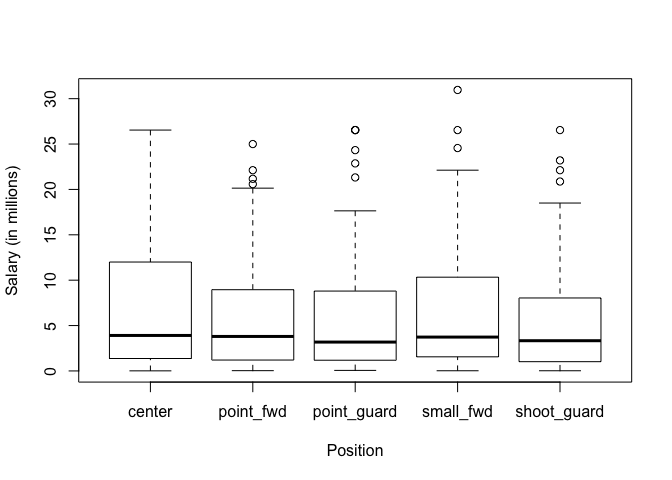
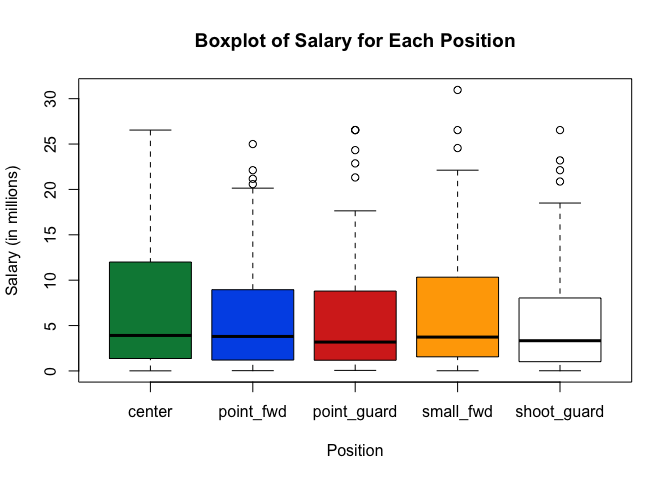
Changed a few R comments to markdown headers. Editted formating of part 8. Added color to boxplots. Added titles to all plots.

diff --git a/hw01/hw01-bryant-luong.md b/hw01/hw01-bryant-luong.md
@@ -87,7 +87,7 @@ abline(h = 10, lty = 2)
 
 Observations of scatterplot:
 
-1.  The cluster of points in the bottom left corner of the scatterplot means most players score below 500 points in a season and have a salary below $5 million.
+1.  The cluster of points in the bottom left corner of the scatterplot means most players scored below 500 points last season and had a salary below $5 million.
 
 2.  There are 3 players who scored around 2,000 points last season but had salaries close to $5 million and 3 players who scored between 1,600 and 1,900 points and had salaries close to $2.5 million.
 
@@ -203,11 +203,11 @@ summary(y_hat)
 
 ##### Regression Equation
 
-The simple linear regression equation is `y_hat = intercept + slope * points`.
+Symbolically, the simple linear regression equation is `y_hat = intercept + slope * points`. Numerically, the simple linear regression equation is `y_hat = 1.51 + 0.0086 * points`.
 
 ##### How do you interpret the slope coefficient?
 
-The slope coefficient shows the average increase in annual salary per point.
+The slope coefficient shows the average increase in annual salary per point. In other words, a player can earn approximately $8,600 for each point scored during the season.
 
 ##### How do you interpret the intercept?
 
@@ -215,36 +215,41 @@ The intercept shows the average baseline salary. If the player doesn't score any
 
 ##### What is the predicted salary (in millions) for a player that scores:
 
+##### 0 points
+
 ``` r
-# 0 points
 intercept + slope * 0
 ```
 
     ## [1] 1.509077
 
+##### 100 points
+
 ``` r
-# 100 points
 intercept + slope * 100
 ```
 
     ## [1] 2.364833
 
+##### 500 points
+
 ``` r
-# 500 points
 intercept + slope * 500
 ```
 
     ## [1] 5.78786
 
+##### 1000 points
+
 ``` r
-# 1000 points
 intercept + slope * 1000
 ```
 
     ## [1] 10.06664
 
+##### 2000 points
+
 ``` r
-# 2000 points
 intercept + slope * 2000
 ```
 
@@ -256,7 +261,7 @@ intercept + slope * 2000
 # plot data in scatter plot
 plot(points, 
      salary_millions, 
-     main = 'Regression and Lowess lines', 
+     main = 'Scatterplot of Points and Salary with Regression and Lowess Lines', 
      xlab = 'Points', 
      ylab = 'Salary (in millions)', 
      pch = 21, 
@@ -294,7 +299,7 @@ text(x = 2490,
 
 ![](hw01-bryant-luong_files/figure-markdown_github-ascii_identifiers/scatter%20with%20regression-1.png)
 
-### 6) Regression residuals and Coefficient of Determination
+### 6) Regression Residuals and Coefficient of Determination
 
 ``` r
 # Calculate residuals and store them in a vector
@@ -334,7 +339,7 @@ r_sqrd
 ``` r
 # Create scatterplot of years of experience to salary
 plot(experience_int, salary_millions, 
-     main = 'Scatterplot with lowess smooth', 
+     main = 'Scatterplot of Years of Experience and Salary with Lowess Line', 
      xlab = 'Years of Experience', 
      ylab = 'Salary (in millions)', 
      pch = 21, 
@@ -373,7 +378,8 @@ scatterplot3d(points,
               type = "h",
               xlab = "Points",
               ylab = "Experience",
-              zlab = "Salary (in millions)")
+              zlab = "Salary (in millions)",
+              main = "3D Scatterplot of Points, Experience, and Salary")
 ```
 
 ![](hw01-bryant-luong_files/figure-markdown_github-ascii_identifiers/3dscatterplot-1.png)
@@ -407,7 +413,9 @@ pos_num <- as.integer(pos_num)
 boxplot(salary_millions ~ pos_num,
         xlab = 'Position',
         ylab = 'Salary (in millions)',
-        names = c('center', 'point_fwd', 'point_guard', 'small_fwd', 'shoot_guard'))
+        main = 'Boxplot of Salary for Each Position',
+        names = c('center', 'point_fwd', 'point_guard', 'small_fwd', 'shoot_guard'),
+        col = c('#008744', '#0057e7', '#d62d20', '#ffa700', 'white'))
 ```
 
 ![](hw01-bryant-luong_files/figure-markdown_github-ascii_identifiers/boxplot-1.png)
@@ -418,40 +426,40 @@ From the boxplot, position does not seem related to salary. All positions have a
 
 **1. What was hard, even though you saw them in class?**
 
-    I am still familiarizing myself with vectorization. I have programmed in other languages and vectorization is unnatural to me. However, it is very useful and quick. I like it!
+I am still familiarizing myself with vectorization. I have programmed in other languages and vectorization is unnatural to me. However, it is very useful and quick. I like it!
 
 **2. What was easy, even though we didn't cover it in class?**
 
-    The easy part was figuring out how plot elements are colored.
+The easy part was figuring out how plot elements are colored.
 
 **3. If this was the first time you were using git, how do you feel about it?**
 
-    This isn't my first time using git. Gaston's slides on git are awesome at explaining the idea of git.
+This isn't my first time using git. Gaston's slides on git are awesome at explaining the idea of git.
 
-**4. If this was the first time using GitHub, how do you feel about it?**
+**4. If this was the first time you were using GitHub, how do you feel about it?**
 
-    This isn't my first time using GitHub. GitHub is great! I think GitHub is hard to explain so students must learn by using it.
+This isn't my first time using GitHub. GitHub is great! I think GitHub is hard to explain so students must learn by using it.
 
 **5. Did you need help completing this assignment?**
 
-    Yes, I needed help. I needed to look at documentation to understand the behavior of multiple functions. Those functions were abline, lines, text, scatterplot3d, and boxplot.
+Yes, I needed help. I needed to look at documentation to understand the behavior of multiple functions. Those functions were abline, lines, text, scatterplot3d, and boxplot.
 
 **6. How much time did it take to complete this HW?**
 
-    6 hours. I got distracted when I was looking at documentation. It's fun seeing how other people are using the functions.
+6 hours. I got distracted when I was looking at documentation. It's fun seeing how other people are using the functions.
 
 **7. What was the most time consuming part?**
 
-    Formating and reading documentation
+Formating and reading documentation
 
 **8. Was there anything that you did not understand?**
 
-    The syntax for boxplot is strange. I'll get used to it.
+The syntax for boxplot is strange. I'll get used to it.
 
 **9. Was there anything frustrating in particular?**
 
-    Yes. GitHub needs to render pdfs faster.
+Yes. GitHub needs to render pdfs faster.
 
 **10. Was there anything exciting?**
 
-    Yes. This assignment was fun because it's teaching me more about the NBA and it was useful in demonstrating the flexibility of R and RStudio. I like the plot function a lot. Hopefully we get to much bigger datasets soon.
+Yes. This assignment was fun because it's teaching me more about the NBA and it was useful in demonstrating the flexibility of R and RStudio. I like the plot function a lot. Hopefully we use bigger datasets soon.
